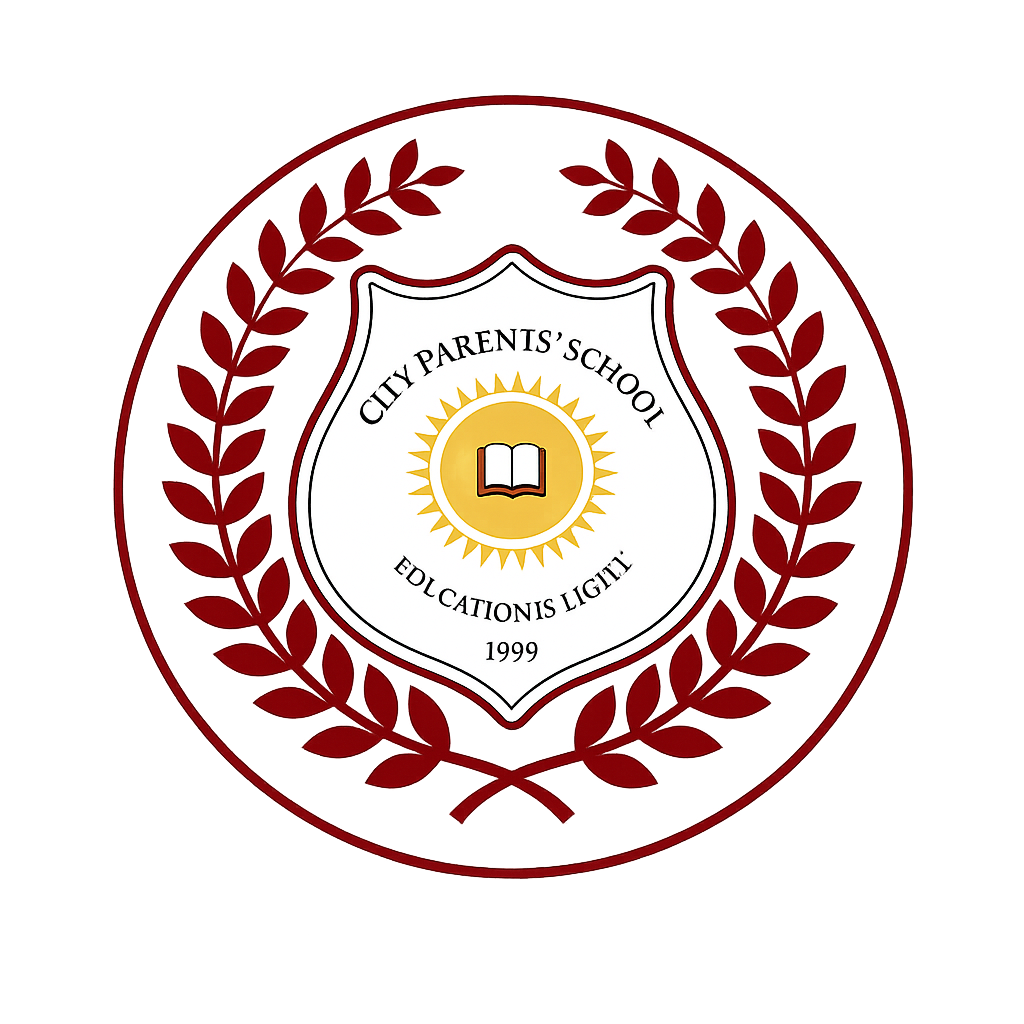
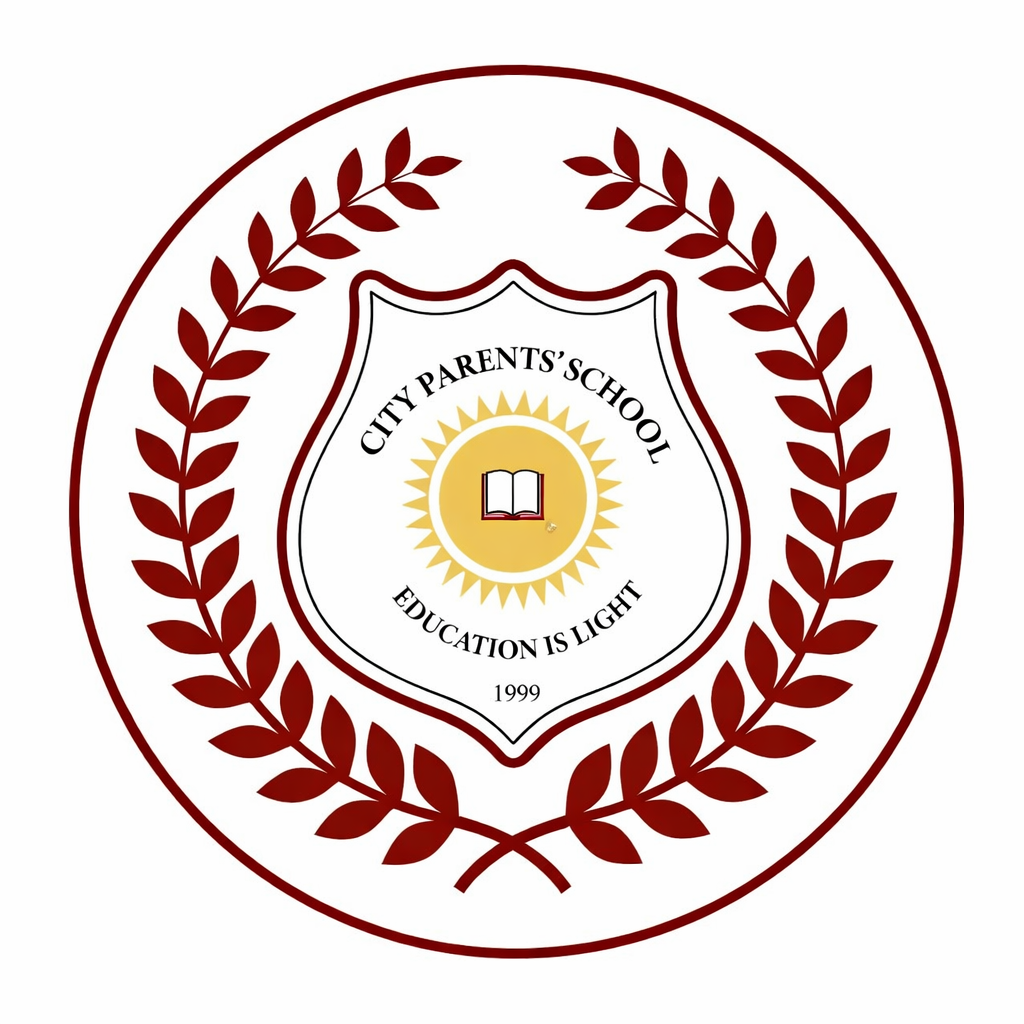
CPS white badge, notification bell navbar, profile photo upload
- Replace CPS badge with white-background version (cps.png)
- Login: add py-8 for better spacing on short screens
- Navbar: replace logout button with notification bell + unread count badge
  - Gold badge shows count (polls every 30s)
  - Links to new /notifications page
- New /notifications page: lists all user notifications, mark read/all read
- Firestore: getUnreadNotificationCount, getUserNotifications, markNotificationRead, markAllNotificationsRead
- Profile picture upload: tap avatar circle to change photo
  - Compresses to base64 via existing uploadPhoto
  - Stores photo_url in user profile document
  - Shows camera overlay on hover, loading spinner during upload
- AppUser type: added photo_url field
- AuthContext: exposed setAppUser for local state updates

diff --git a/src/app/profile/page.tsx b/src/app/profile/page.tsx
@@ -1,14 +1,19 @@
 'use client';
 
-import { useEffect } from 'react';
+import { useEffect, useState, useRef } from 'react';
 import { useRouter } from 'next/navigation';
 import { useAuth } from '@/context/AuthContext';
 import { logout } from '@/lib/auth';
+import { updateUserProfile } from '@/lib/firestore';
+import { uploadPhoto } from '@/lib/storage';
 import { UserCircleIcon, ArrowRightOnRectangleIcon, BuildingIcon, ShareIcon, DownloadIcon, ClipboardIcon, ChatBubbleIcon, BellIcon, AppleIcon, AndroidIcon, DevicePhoneIcon } from '@/components/Icons';
+import Image from 'next/image';
 
 export default function ProfilePage() {
-  const { appUser, loading } = useAuth();
+  const { appUser, loading, setAppUser } = useAuth();
   const router = useRouter();
+  const fileRef = useRef<HTMLInputElement>(null);
+  const [uploading, setUploading] = useState(false);
 
   useEffect(() => {
     if (!loading && !appUser) router.replace('/login');
@@ -57,6 +62,21 @@ export default function ProfilePage() {
     }
   }
 
+  async function handlePhotoChange(e: React.ChangeEvent<HTMLInputElement>) {
+    const file = e.target.files?.[0];
+    if (!file || !appUser) return;
+    setUploading(true);
+    try {
+      const dataUrl = await uploadPhoto(file, `avatars/${appUser.id}`);
+      await updateUserProfile(appUser.id, { photo_url: dataUrl });
+      setAppUser((prev) => prev ? { ...prev, photo_url: dataUrl } : prev);
+    } catch {
+      alert('Failed to upload photo. Please try again.');
+    } finally {
+      setUploading(false);
+    }
+  }
+
   if (loading || !appUser) return (
     <div className="flex min-h-[60dvh] items-center justify-center">
       <div className="spinner" />
@@ -66,12 +86,38 @@ export default function ProfilePage() {
   return (
     <div className="space-y-6">
       {/* Avatar / Name */}
-      <div className="-mx-4 sm:mx-0 flex flex-col items-center rounded-none sm:rounded-2xl bg-gradient-to-br from-red-800 via-red-900 to-red-950 py-8 text-white shadow-md">
-        <div className="mb-3 flex h-20 w-20 items-center justify-center rounded-full bg-white/20 text-white">
-          <UserCircleIcon className="h-14 w-14" />
-        </div>
+      <div className="-mx-4 sm:mx-0 flex flex-col items-center rounded-none sm:rounded-2xl bg-gradient-to-br from-red-800 via-red-900 to-red-950 py-8 text-white shadow-md relative overflow-hidden">
+        <div className="absolute top-0 right-0 w-24 h-24 bg-amber-400/10 rounded-full -translate-y-8 translate-x-8" />
+        <button
+          onClick={() => fileRef.current?.click()}
+          disabled={uploading}
+          className="relative mb-3 group"
+        >
+          <div className="h-24 w-24 rounded-full overflow-hidden ring-3 ring-white/30 shadow-lg">
+            {appUser.photo_url ? (
+              <Image src={appUser.photo_url} alt={appUser.name} width={96} height={96} className="h-full w-full object-cover" />
+            ) : (
+              <div className="flex h-full w-full items-center justify-center bg-white/20 text-white">
+                <UserCircleIcon className="h-16 w-16" />
+              </div>
+            )}
+          </div>
+          <div className="absolute inset-0 flex items-center justify-center rounded-full bg-black/40 opacity-0 group-hover:opacity-100 transition-opacity">
+            <svg className="h-6 w-6 text-white" fill="none" viewBox="0 0 24 24" stroke="currentColor" strokeWidth={2}>
+              <path strokeLinecap="round" strokeLinejoin="round" d="M6.827 6.175A2.31 2.31 0 0 1 5.186 7.23c-.38.054-.757.112-1.134.175C2.999 7.58 2.25 8.507 2.25 9.574V18a2.25 2.25 0 0 0 2.25 2.25h15A2.25 2.25 0 0 0 21.75 18V9.574c0-1.067-.75-1.994-1.802-2.169a47.865 47.865 0 0 0-1.134-.175 2.31 2.31 0 0 1-1.64-1.055l-.822-1.316a2.192 2.192 0 0 0-1.736-1.039 48.774 48.774 0 0 0-5.232 0 2.192 2.192 0 0 0-1.736 1.039l-.821 1.316Z" />
+              <path strokeLinecap="round" strokeLinejoin="round" d="M16.5 12.75a4.5 4.5 0 1 1-9 0 4.5 4.5 0 0 1 9 0Z" />
+            </svg>
+          </div>
+          {uploading && (
+            <div className="absolute inset-0 flex items-center justify-center rounded-full bg-black/50">
+              <div className="h-6 w-6 animate-spin rounded-full border-2 border-white/30 border-t-white" />
+            </div>
+          )}
+        </button>
+        <input ref={fileRef} type="file" accept="image/*" onChange={handlePhotoChange} className="hidden" />
+        <p className="text-[10px] text-white/50 mb-2">Tap photo to change</p>
         <h1 className="text-xl font-bold">{appUser.name}</h1>
-        <p className="mt-0.5 text-sm opacity-80">{appUser.email}</p>
+        <p className="mt-0.5 text-sm text-white/70">{appUser.email}</p>
         <span className="mt-2 rounded-full bg-white/20 px-3 py-1 text-xs font-semibold capitalize">
           {appUser.role}
         </span>

diff --git a/src/app/notifications/page.tsx b/src/app/notifications/page.tsx
@@ -1,0 +1,127 @@
+'use client';
+
+import { useEffect, useState, useCallback } from 'react';
+import { useRouter } from 'next/navigation';
+import { useAuth } from '@/context/AuthContext';
+import { getUserNotifications, markNotificationRead, markAllNotificationsRead } from '@/lib/firestore';
+import { usePullRefresh } from '@/hooks/usePullRefresh';
+import PullIndicator from '@/components/PullIndicator';
+import { BellIcon } from '@/components/Icons';
+
+interface Notification {
+  id: string;
+  type: string;
+  title: string;
+  body: string;
+  read: boolean;
+  created_at: string;
+}
+
+export default function NotificationsPage() {
+  const { appUser, loading } = useAuth();
+  const router = useRouter();
+  const [notifs, setNotifs] = useState<Notification[]>([]);
+  const [fetching, setFetching] = useState(true);
+
+  useEffect(() => {
+    if (!loading && !appUser) router.replace('/login');
+  }, [loading, appUser, router]);
+
+  useEffect(() => {
+    if (!appUser) return;
+    getUserNotifications(appUser.id).then((n) => {
+      setNotifs(n);
+      setFetching(false);
+    });
+  }, [appUser]);
+
+  const handleRefresh = useCallback(async () => {
+    if (!appUser) return;
+    const n = await getUserNotifications(appUser.id);
+    setNotifs(n);
+  }, [appUser]);
+
+  const { refreshing, pullDistance, containerRef } = usePullRefresh({ onRefresh: handleRefresh });
+
+  async function handleMarkRead(id: string) {
+    await markNotificationRead(id);
+    setNotifs((prev) => prev.map((n) => (n.id === id ? { ...n, read: true } : n)));
+  }
+
+  async function handleMarkAllRead() {
+    if (!appUser) return;
+    await markAllNotificationsRead(appUser.id);
+    setNotifs((prev) => prev.map((n) => ({ ...n, read: true })));
+  }
+
+  if (loading || !appUser) return (
+    <div className="flex min-h-[60dvh] items-center justify-center">
+      <div className="spinner" />
+    </div>
+  );
+
+  const unreadCount = notifs.filter((n) => !n.read).length;
+
+  return (
+    <div ref={containerRef} className="space-y-4">
+      <PullIndicator pullDistance={pullDistance} refreshing={refreshing} />
+
+      <div className="flex items-center justify-between">
+        <h1 className="text-lg font-bold text-gray-900">Notifications</h1>
+        {unreadCount > 0 && (
+          <button
+            onClick={handleMarkAllRead}
+            className="text-xs font-medium text-red-800 hover:underline"
+          >
+            Mark all read
+          </button>
+        )}
+      </div>
+
+      {fetching ? (
+        <div className="flex justify-center py-12"><div className="spinner" /></div>
+      ) : notifs.length === 0 ? (
+        <div className="rounded-xl border border-dashed border-gray-300 p-8 text-center">
+          <BellIcon className="mx-auto h-10 w-10 text-gray-300 mb-2" />
+          <p className="text-sm text-gray-400">No notifications yet.</p>
+        </div>
+      ) : (
+        <div className="space-y-2">
+          {notifs.map((n) => (
+            <button
+              key={n.id}
+              onClick={() => !n.read && handleMarkRead(n.id)}
+              className={`w-full text-left rounded-xl border px-4 py-3 shadow-sm transition-colors ${
+                n.read
+                  ? 'bg-white border-gray-200'
+                  : 'bg-red-50 border-red-200 hover:bg-red-100'
+              }`}
+            >
+              <div className="flex items-start gap-3">
+                <div className={`mt-0.5 flex h-8 w-8 shrink-0 items-center justify-center rounded-full ${
+                  n.read ? 'bg-gray-100' : 'bg-red-800'
+                }`}>
+                  <BellIcon className={`h-4 w-4 ${n.read ? 'text-gray-400' : 'text-white'}`} />
+                </div>
+                <div className="min-w-0 flex-1">
+                  <div className="flex items-center gap-2">
+                    <p className={`text-sm font-semibold truncate ${n.read ? 'text-gray-700' : 'text-gray-900'}`}>
+                      {n.title}
+                    </p>
+                    {!n.read && (
+                      <span className="shrink-0 h-2 w-2 rounded-full bg-red-600" />
+                    )}
+                  </div>
+                  <p className="text-xs text-gray-500 line-clamp-2 mt-0.5">{n.body}</p>
+                  <p className="text-[10px] text-gray-400 mt-1">
+                    {new Date(n.created_at).toLocaleDateString()} · {new Date(n.created_at).toLocaleTimeString([], { hour: '2-digit', minute: '2-digit' })}
+                  </p>
+                </div>
+              </div>
+            </button>
+          ))}
+        </div>
+      )}
+    </div>
+  );
+}

diff --git a/src/lib/firestore.ts b/src/lib/firestore.ts
@@ -299,7 +299,7 @@ export async function getAllUsers(): Promise<AppUser[]> {
 
 export async function updateUserProfile(
   uid: string,
-  data: Partial<Pick<AppUser, 'name' | 'role' | 'active'>>
+  data: Partial<Pick<AppUser, 'name' | 'role' | 'active' | 'photo_url'>>
 ): Promise<void> {
   await updateDoc(doc(db, 'users', uid), data);
 }
@@ -455,6 +455,65 @@ export async function createNotification(data: {
     read: false,
     created_at: serverTimestamp(),
   });
+}
+
+export async function getUnreadNotificationCount(userId: string): Promise<number> {
+  const q1 = query(
+    collection(db, 'notifications'),
+    where('target_user_id', '==', userId),
+    where('read', '==', false)
+  );
+  const q2 = query(
+    collection(db, 'notifications'),
+    where('target_all', '==', true),
+    where('read', '==', false)
+  );
+  const [s1, s2] = await Promise.all([getDocs(q1), getDocs(q2)]);
+  const ids = new Set<string>();
+  s1.docs.forEach((d) => ids.add(d.id));
+  s2.docs.forEach((d) => ids.add(d.id));
+  return ids.size;
+}
+
+export async function getUserNotifications(userId: string): Promise<Array<{
+  id: string; type: string; title: string; body: string; read: boolean; created_at: string;
+}>> {
+  const q1 = query(
+    collection(db, 'notifications'),
+    where('target_user_id', '==', userId),
+    orderBy('created_at', 'desc')
+  );
+  const q2 = query(
+    collection(db, 'notifications'),
+    where('target_all', '==', true),
+    orderBy('created_at', 'desc')
+  );
+  const [s1, s2] = await Promise.all([getDocs(q1), getDocs(q2)]);
+  const map = new Map<string, { id: string; type: string; title: string; body: string; read: boolean; created_at: string }>();
+  [...s1.docs, ...s2.docs].forEach((d) => {
+    if (!map.has(d.id)) {
+      const data = d.data();
+      map.set(d.id, {
+        id: d.id,
+        type: data.type ?? 'system',
+        title: data.title ?? '',
+        body: data.body ?? '',
+        read: data.read ?? false,
+        created_at: toDate(data.created_at),
+      });
+    }
+  });
+  return Array.from(map.values()).sort((a, b) => b.created_at.localeCompare(a.created_at));
+}
+
+export async function markNotificationRead(notifId: string): Promise<void> {
+  await updateDoc(doc(db, 'notifications', notifId), { read: true });
+}
+
+export async function markAllNotificationsRead(userId: string): Promise<void> {
+  const notifs = await getUserNotifications(userId);
+  const unread = notifs.filter((n) => !n.read);
+  await Promise.all(unread.map((n) => updateDoc(doc(db, 'notifications', n.id), { read: true })));
 }
 
 // ─── Broadcast Notices ───────────────────────────────────────────────────────

diff --git a/src/components/Navbar.tsx b/src/components/Navbar.tsx
@@ -1,20 +1,24 @@
 'use client';
 
+import { useEffect, useState } from 'react';
 import Link from 'next/link';
 import Image from 'next/image';
-import { useRouter } from 'next/navigation';
-import { logout } from '@/lib/auth';
 import { useAuth } from '@/context/AuthContext';
-import { ArrowRightOnRectangleIcon } from './Icons';
+import { getUnreadNotificationCount } from '@/lib/firestore';
+import { BellIcon } from './Icons';
 
 export default function Navbar() {
   const { appUser } = useAuth();
-  const router = useRouter();
+  const [unreadCount, setUnreadCount] = useState(0);
 
-  async function handleLogout() {
-    await logout();
-    router.replace('/login');
-  }
+  useEffect(() => {
+    if (!appUser) return;
+    getUnreadNotificationCount(appUser.id).then(setUnreadCount);
+    const iv = setInterval(() => {
+      getUnreadNotificationCount(appUser.id).then(setUnreadCount);
+    }, 30000);
+    return () => clearInterval(iv);
+  }, [appUser]);
 
   return (
     <>
@@ -36,13 +40,17 @@ export default function Navbar() {
               {appUser.name}
             </span>
           )}
-          <button
-            onClick={handleLogout}
-            className="flex items-center gap-1.5 rounded-lg bg-white/10 backdrop-blur-sm border border-white/15 px-3 py-1.5 text-xs font-medium text-white hover:bg-white/20 active:bg-white/5 transition-colors"
+          <Link
+            href="/notifications"
+            className="relative flex items-center justify-center rounded-lg bg-white/10 backdrop-blur-sm border border-white/15 p-2 text-white hover:bg-white/20 active:bg-white/5 transition-colors"
           >
-            <ArrowRightOnRectangleIcon className="h-4 w-4" />
-            <span className="hidden sm:inline">Logout</span>
-          </button>
+            <BellIcon className="h-5 w-5" />
+            {unreadCount > 0 && (
+              <span className="absolute -top-1.5 -right-1.5 flex h-5 min-w-5 items-center justify-center rounded-full bg-amber-400 px-1 text-[10px] font-bold text-red-950 shadow-sm">
+                {unreadCount > 99 ? '99+' : unreadCount}
+              </span>
+            )}
+          </Link>
         </div>
       </header>
       {/* Curved bottom edge */}

diff --git a/src/context/AuthContext.tsx b/src/context/AuthContext.tsx
@@ -17,12 +17,14 @@ interface AuthContextValue {
   firebaseUser: User | null;
   appUser: AppUser | null;
   loading: boolean;
+  setAppUser: React.Dispatch<React.SetStateAction<AppUser | null>>;
 }
 
 const AuthContext = createContext<AuthContextValue>({
   firebaseUser: null,
   appUser: null,
   loading: true,
+  setAppUser: () => {},
 });
 
 export function AuthProvider({ children }: { children: ReactNode }) {
@@ -91,7 +93,7 @@ export function AuthProvider({ children }: { children: ReactNode }) {
   }, [appUser]);
 
   return (
-    <AuthContext.Provider value={{ firebaseUser, appUser, loading }}>
+    <AuthContext.Provider value={{ firebaseUser, appUser, loading, setAppUser }}>
       {children}
     </AuthContext.Provider>
   );

diff --git a/src/app/login/page.tsx b/src/app/login/page.tsx
@@ -70,7 +70,7 @@ export default function LoginPage() {
   }
 
   return (
-    <div className="flex min-h-dvh flex-col items-center justify-center bg-gradient-to-br from-red-800 via-red-900 to-red-950 px-4">
+    <div className="flex min-h-dvh flex-col items-center justify-center bg-gradient-to-br from-red-800 via-red-900 to-red-950 px-4 py-8">
       <div className="w-full max-w-sm rounded-2xl bg-white p-6 sm:p-8 shadow-2xl">
         {/* Logo / Title */}
         <div className="mb-8 text-center">

diff --git a/src/types/user.ts b/src/types/user.ts
@@ -6,6 +6,7 @@ export interface AppUser {
   email: string;
   role: UserRole;
   active: boolean;
+  photo_url?: string;
   created_at: string;
   last_seen?: string;
   online?: boolean;
